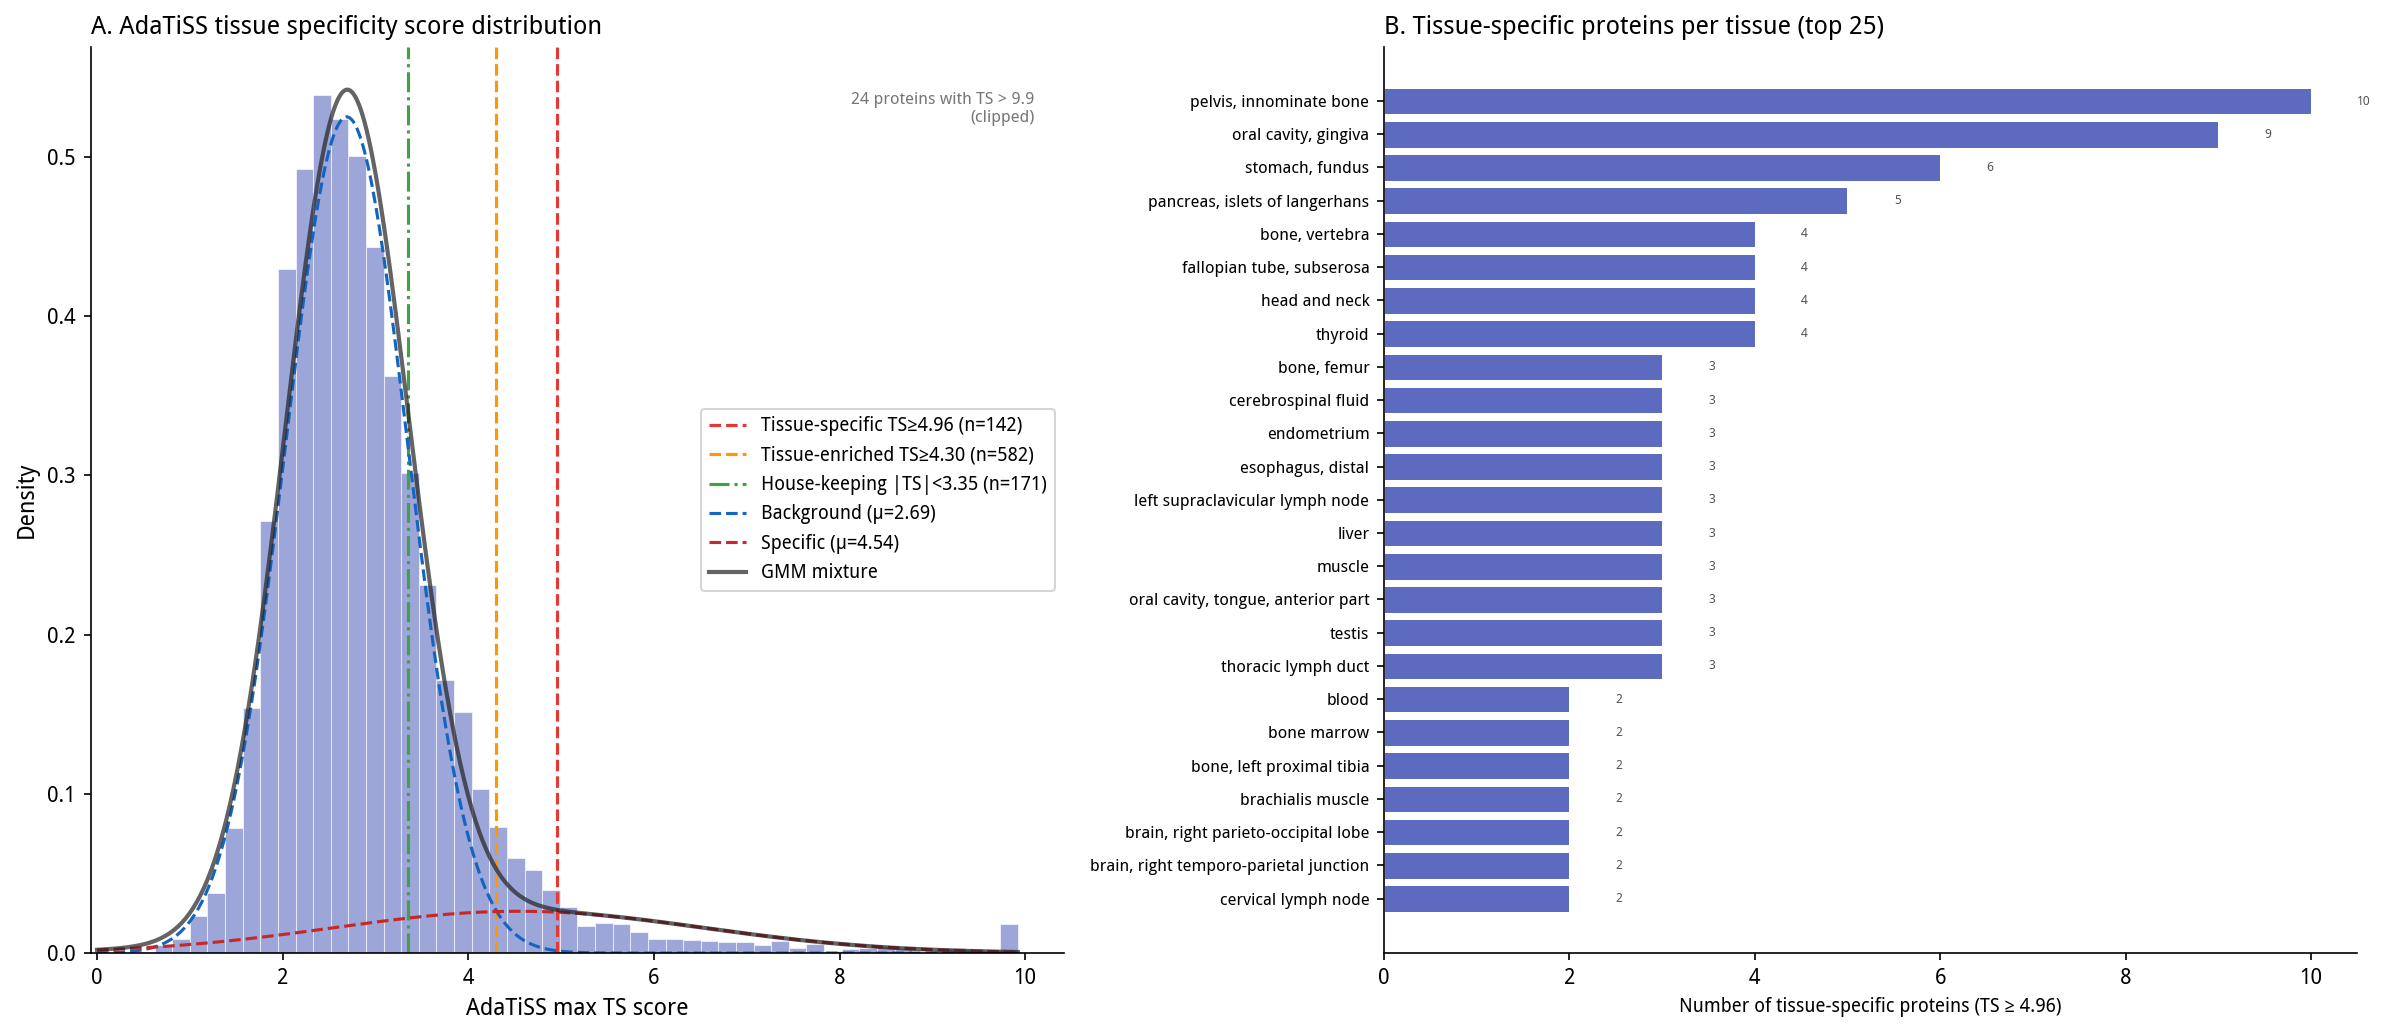
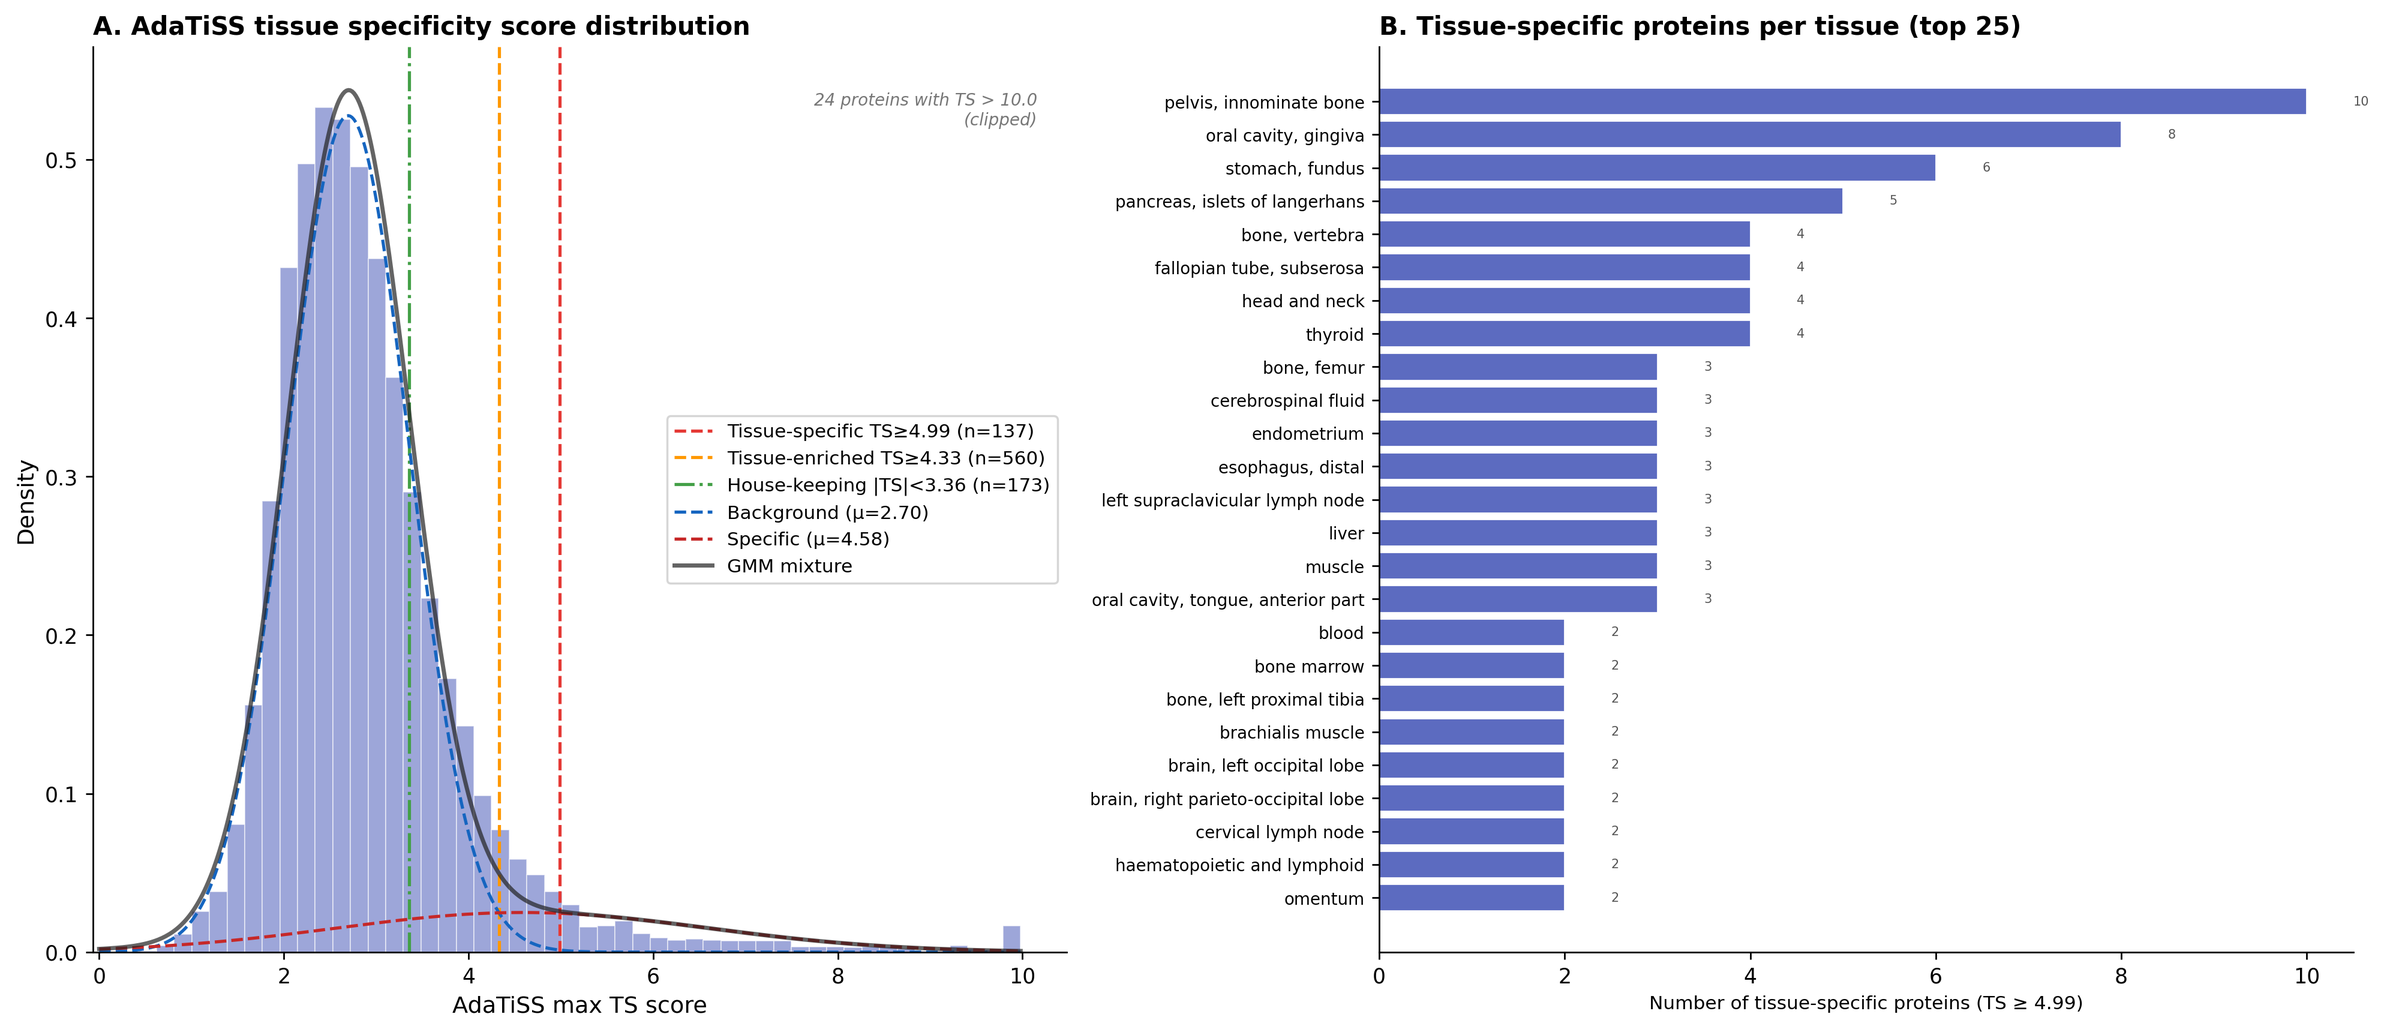
docs(examples): refresh PXD030304 tissue figures

diff --git a/docs/examples/pxd030304-cell-lines.md b/docs/examples/pxd030304-cell-lines.md
@@ -75,8 +75,8 @@ and the PCA variance profile.*
 
 *Wilcoxon marker profiles, the AdaTiSS distribution, tissue-specific protein
 counts, and three marker-expression maps. Across the 30 adequately represented
-tissues, AdaTiSS classifies 62 proteins as tissue-specific, 712 as
-tissue-enriched, 2,552 as housekeeping, and 3,862 as other.*
+tissues, AdaTiSS classifies 60 proteins as tissue-specific, 702 as
+tissue-enriched, 2,577 as housekeeping, and 3,849 as other.*
 
 ## Numerical cross-check against the previous run
 
